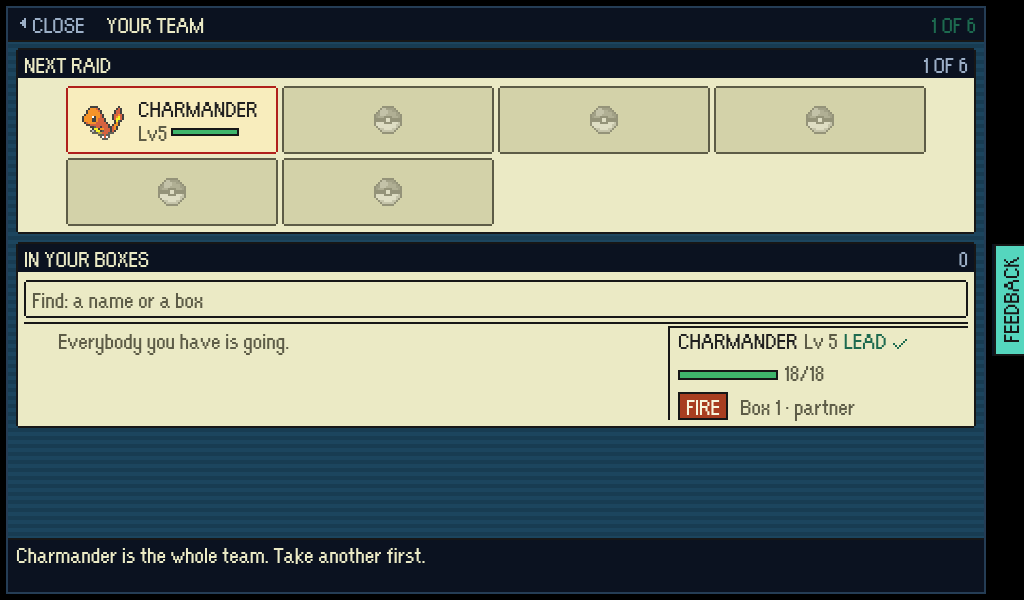
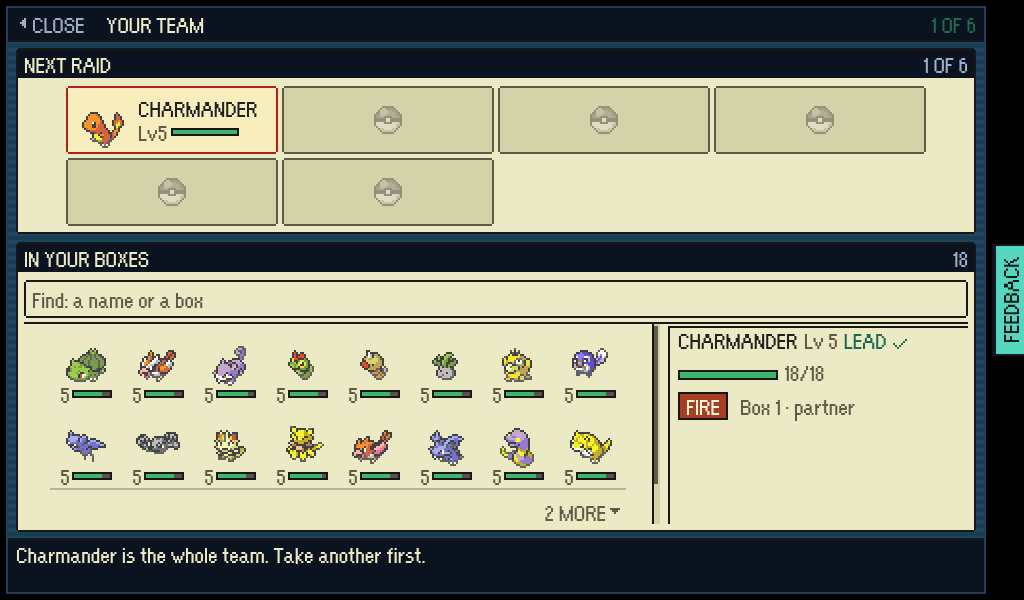
YOUR TEAM's short card hangs only from MenuOverlay's own data-short: fitSidePanel no longer writes a flag that the next line of the relayout overwrote

Changed region(s): [[0.0, 0.54, 0.9688, 0.9], [0.0625, 0.18, 0.125, 0.24]]

diff --git a/src/style.css b/src/style.css
@@ -5226,13 +5226,14 @@ button {
   align-self: end;
 }
 :where(.pixel-ui[data-short]) .team-card > .px-portrait {
-  /* Too short even as a sheet (`fitSidePanel`'s data-short): the words are the
-     card, and the slot above already shows who it is. */
+  /* A screen short of height (`data-short`, `isShortRoom`): at 800x512 the
+     card ran past its frame, its name and HP under it and its LEAD tick on the
+     hint line. The words are the card; the slot above already shows who it is. */
   display: none;
 }
 :where(.pixel-ui[data-short]) .team-card:not([hidden]) {
   /* The name and the bar across, then the type badges and where it lives side
-     by side on one line: three lines are what the short sheet has room for. */
+     by side on one line: three lines are what a short screen has room for. */
   grid-template-columns: auto minmax(0, 1fr);
 }
 :where(.pixel-ui[data-short]) .team-card > .team-card-words > .team-card-types {

diff --git a/src/game/ui/sidePanel.ts b/src/game/ui/sidePanel.ts
@@ -43,19 +43,6 @@ export interface SidePanelView {
  * against the layer put SEND off the edge.
  */
 export function fitSidePanel(root: HTMLElement): SidePanelLayout {
-  const layout = fitLayout(root);
-  // Even a sheet can be too short for a screen: at 800x512 YOUR TEAM's card lost
-  // its name and HP under the frame and its LEAD tick was drawn on the hint line
-  // (scenario loop, 22 Nov 2026). `data-short` asks the screen to drop what it
-  // can do without - the card its big portrait, the slot above has the icon.
-  delete root.dataset.short;
-  if (layout === 'sheet' && spillsOutOfItsFrame(root)) {
-    root.dataset.short = 'true';
-  }
-  return layout;
-}
-
-function fitLayout(root: HTMLElement): SidePanelLayout {
   const layer = root.parentElement;
   const unit = Number.parseFloat(layer?.style.getPropertyValue('--px') ?? '') || 2;
   const box = layer?.getBoundingClientRect();

diff --git a/docs/agents/ui-and-screens.md b/docs/agents/ui-and-screens.md
@@ -16,7 +16,7 @@ Moved out of `AGENTS.md` on 9 Nov 2026 so that file stays small; nothing here wa
 - **The collection and the answer about the thing in it are one screen.** A Pokemon's experience, stats and moves were a whole second view reached by a SUMMARY chip that stood on every stash row beside MOVE, TAKE and GIVE, so two dozen Pokemon were a hundred controls with the thing you came for a layer down. It is the PC box instead: a row is the two lines that tell one Pokemon from another, and everything about the one under the cursor - portrait, types, condition, gear, experience, stats, moves, and whatever deeds that screen offers - is `HubScene.pokemonDetail()` in the `.px-detail` pane under the list, the same pane the contract board and Brock's ladder use. The loadout's treatment chips are its `deeds`, for the same reason. **Every control inside a detail pane carries the pane's own `data-shows`**, or the cursor moving into it swaps the pane out from under itself. The dossier is as tall as what is in it, in a window that is a column flex (`:has(.px-dossier)` in `style.css`) so it can shrink to the screen: once list and dossier cannot both be whole the dossier gives way first, down to `--dossier-floor`, so how much of the list shows never depends on which row the cursor is on - a fixed band was one line and a MORE strip over half a screen of backdrop, with the raid party's TAKE below the fold (playtests 38 and 44); `roomFor()` in `columnLayout.ts` is the one rule that asks how much room the *screen* has (`data-room` on the overlay root, the only thing the stylesheet keys off it), because the band's five blocks need 820 game pixels to stand side by side and a band that wraps is a band cut through the middle. It is **three rungs, not two** - `tight` is `BASE_STAGE` itself, where a list, the band that answers for the row it is on *and* a second band under that cannot share one pane - so every `[data-room='narrow']` rule in the stylesheet carries a `[data-room='tight']` twin, held by `columnLayout.test.ts` because the failure is otherwise silent. `MenuOverlay.showDetailFor` swaps panes **within the control's own window**, not across the screen: Bill is two counters on one page, and swept screen-wide, pointing at his shelf blanked the pane under his barter table. Which window is `detailGroupOf`, not `closest('.px-window')` - a button or a chip wears that class too, so the nearest one to a chip is the chip, and a pane under the list stopped answering at all. `docs/screens/menu-columns/` is the before and after.
 - **A shop says what a thing does, and says it whether or not you have bought it.** A workshop rung's subtitle used to be its *price* while unbought and its *effect* once built, so the one moment a player needs to know what a thing does - deciding whether to buy it - was the moment it was hidden, and the screen explained the purchase after the money was gone (the captain, 2026-09-20, having bought Secure locker I without knowing what it was). `src/game/ui/shopDetail.ts` is the rule both shelves render, Phaser-free: **the row's own line is always the effect**, because what a thing does is its identity and identity does not change when you pay for it; **the price is a column of its own on the right** (`shopPriceColumn`, one short line a part, red and marked with a drawn cross (`SHORT_MARK`, so short is a shape as well as a colour) on what this vault cannot cover, `COLUMN_MEASURES.priced`), which is how a shelf has always answered both at once; and the `.px-detail` pane under the list holds the whole picture for the row the cursor is on - the longer promise, the price **against what is actually spendable** (`payablePokemonCount`, `spendableSupply`, `moneyHeld`, the ration), and the gate, named. Nothing needed writing: `workshop.ts` already carried `effect` and `detail` and every item already carried a `description`, and the pane prints effect above detail, so a `detail` that restates its effect says one thing twice - `shopDetail.test.ts` fails either shelf for it. A bought rung keeps its line and its price column says PAID. Bill gets the same treatment on both counters, and his two irreversible deals - a barter and the berth - are **asked again before they are struck** (and so are Brock's rungs and the partner swap; the safe answer stands last, in the seat of the button that armed it, and `HubScene.clickedTooSoon` swallows a pointer click on the confirm within `RELEASE_ARMING_MS` of arming, because the second click of a double-click released a partner): the row becomes the question and two buttons with the cursor on the one that changes nothing, the arrows stay between its two answers (`askedDealIndex`), and while a deal is asking no other row carries `data-cursor-start` (`refocus` takes the first in the document, and a shelf row still carrying one bought a Poke Ball with the second press). His shelf is never armed: a Potion for Pokedollars is an ordinary purchase and already rationed. `tools/playtest/shopScreens.mjs` stands in front of a rung you can afford, one you cannot and one behind a door and asks all four questions with the arrow keys; `docs/screens/shop-screens/` is the before and after.
 - **Every** DOM screen that belongs to the game is **pixel-ui** - lobby, starter picker, raid result, and since #156 the three a raid opens over the world (the pack, the party, the field guide): an overlay opts in with the `pixel-ui` class, its markup comes from `src/game/ui/pixelUi.ts` (`pixelScreen`, `pixelWindow`, `pixelCommitBar`, `pixelHpBar`, `pixelTag`, `pixelGrid`), and its styling is the `Pixel UI` block that ends `src/style.css`. The unit is one game pixel: `stageScaler.ts` sets `--px` (and the bare `--zoom`) on `#app`, the block calls it `--u`, and every measurement is `calc(var(--u) * N)` with `N` whole - never `px`, `vw`, `cqw` or `em`. One type size, 12.5 game pixels, because Orange Kid's stem is 0.08em and that is where a stem is one pixel, and no bold cut (`strong` is 400), so **weight and size are not levers and hierarchy is inversion, ink, a visible rule and space**. Three ranks, each the title bar or the window reused: `.px-title` is a dark strip 16 pixels deep across the whole screen (where am I); `.px-heading` is the same strip in miniature, 14 deep, bled out to its own window's frame with its note in `--bar-muted` (what is this panel); `.px-subheading` is a `--cream-dim` band across a list in full `--ink` caps, ruled off in `--frame`, with three times the room above it as below (what is this part of the list). Under them a name is plain caps in `--ink` and a detail is `--ink-soft`. Never `--cream-dim` for a rule - on `--cream` it is a twelve per cent step that reads as a fill, not a line - and never `--ink-soft` for a heading: that is de-emphasis. A DOM screen may draw on a canvas of its own - the drop-in screen's map is one - and `#app > canvas` is scoped to the game's own canvas for that reason: unscoped, its `max-height: 100%` resolved a picture inside a pane with no definite height to nothing at all. Nothing inside a screen may resize the screen: `.px-screen`'s one column is `minmax(0, 1fr)` and the title bar's aside clips, because a grid's `auto` column takes its floor from the widest child's min-content and the title bar's `nowrap` back label and aside pushed the lobby 19 pixels past the canvas at the smallest stage. `style.test.ts` holds all of that. **No glyph is ever half-drawn**: a `.px-heading` note is whole or not drawn (the strip wraps a note that does not fit onto a second line the one-line strip clips away, so a note is never itself clipped or shrunk - a note a player needs, like the final check's squares, must be short enough to fit the smallest stage), and a `.px-scroll` pane whose foot would cut a row through its waist gives the whole row to its MORE strip (`scrollCoverHeight()` in `MenuOverlay.ts`, set as `--more-cover` by `markScrollCues()`) and clips off a line *beside* that row the strip's edge would still cut (`foldedRows()`, `data-folded` - Bill's detail panes are two columns whose lines interlock, so no one fold is clean in both), and a row of wrapped copy that is not a control (the result screen's contract) is measured as its lines beside its icon (`rowPieces`), so the strip falls between two of them rather than taking the whole row and its heading, and a `.px-subheading` is never the last line above the strip - with its rows all below the fold it goes under the strip with them (`orphanedHeading`; the drop-in pane ended on ERRANDS over nothing) - and a scrolled pane's top edge masks out the sliver of a row it cuts, down to the first whole row (`scrollTopCoverHeight()`, `data-above`) - the cursor scrolls a row into view by just enough to show it, which left the row above sliced through its name. `tools/playtest/headingShots.mjs` photographs every headed screen at both stages and audits each strip's note by geometry (`docs/screens/heading-clip/` is the before and after). `docs/screens/menu-hierarchy/` is the before-and-after at 3x and at the smallest stage. Orange Kid has no arrows and no tick, so none may be typed - the cursor and the tick are drawn masks (`--px-cursor`, `--px-tick`) and a HubScene test fails a screen that types one. Text is the only thing whose width is not a multiple of the unit, so `MenuOverlay.snapTextBoxes()` widens text-sized boxes to the grid after every render - and again on `document.fonts`' `loadingdone`, because boot waits for Orange Kid only `GAME_FONT_TIMEOUT_MS` and boxes measured in the monospace fallback stayed a third too wide (the starter picker's two type tags stopped fitting on one row; `tools/playtest/browser.mjs`'s `page.on('Fetch.requestPaused')` holds the woff2 back to reproduce it) - and `.px-screen` is its own transparent layer because that is what makes Windows and Linux antialias the face in greys instead of LCD colour fringes. Every selector in that block is scoped to `.pixel-ui` - through `:where()`, so the scope adds no weight and the cascade reads as written - because the older screens share class names with the lobby; `style.test.ts` fails an unscoped one. The flip side: a `:where()`-scoped rule weighs one class, so it can never pad a window against `.pixel-ui .px-window` (two). Bill's tight `padding: 0` sat dead for a release for that reason, and `style.test.ts` now fails any rule like it. Brock's ladder and payment are pixel-ui too (a rung is a `px-tall` row, and what the pointed-at rung does is the list's one `px-detail` pane, as on the contract board). How far a Pokemon is from its next level and what each of its moves does are derived by `src/game/ui/pokemonSummary.ts` (the top of the experience curve is read off the curve, because `experienceForLevel` clamps, rather than from a second copy of the cap) and drawn in the stash's own detail pane - see the entry below; there is no summary *screen*. Only the Test Lab (`?test-lab=1`) is still the older rounded style, which is a dev tool and nobody's game. **A screen a raid opens is the same screen as the one at base**, and that is a rule rather than a resemblance: `raidScreens.test.ts` holds all three to the shared parts, to `pixelColumns`, to `moveCursor`, and to having no layer of their own. It is read under the clock with the hunter on the map, so a layer costs more here than anywhere - the bag's pocket *tabs* are gone (every pocket at once, banded by `.px-subheading`, gear among them for the first time), the row itself is the act (Enter on a Potion opens the recipient list, so using one is four presses) and the pointed-at item's squares are lit by a class on a block rather than by a re-render (`BagScene.markPack`, off the `data-describes` key every `pixelGrid` block carries - the same key its row does, so pointing at a square answers for the row and back). The pane under a list of Pokemon is one module, `src/game/ui/pokemonDossier.ts`, shared by the stash and the raid party so two lists of the same thing cannot drift into two shapes; its CSS is `.px-dossier*`. One trap it paid for twice: **a `.px-scroll` pane may never have bottom padding of its own**. A sticky MORE strip sticks to the *content* edge, so the padding shows the tops of the next line's letters under the very cue that exists to stop a row being half drawn - `.px-scroll` sets it to zero and `style.test.ts` fails a later rule that puts it back on any class the markup ever pairs with `px-scroll` - `.px-dossier` had it, and then `.shop-detail` did. A wrapped `.px-wrap` sentence is measured for the fold line by line (`lineBoxes()` in `MenuOverlay.ts`), so the strip may fall between two of its lines but never through one. And **a pane may never draw a scrollbar for a pixel**: Orange Kid's content area is deeper than its 12-pixel line, so a list's last row overflows its pane by a screen pixel, and where a browser draws scrollbars (Windows) that bar took the width its columns were counted in, a second took the height and the MORE strip the rest - the final check cut three rows through their middles over an empty screen. `fitsItsBox` marks such a pane `data-flush` and it clips instead; `menuShots.mjs --scrollbars` fails a pane that scrolls by a pixel or sideways, and only `--scrollbars` shows it in a picture.
-- **A menu shows things rather than listing them** (the captain, 12 Nov 2026: menus "so cluttered and boring"; `docs/screens/menu-overhaul/` is the inventory, the named benchmarks, the rules and a before, after and scorecard per menu, redrawn one pull request at a time). A Pokémon on a menu is FireRed's party icon (`ui/monIcon.ts`, `pixelMonIcon`, over the shipped `pokemon-icons.png`), flapping between its two frames at FireRed's own pace for its health - 6, 8, 14 or 22 ticks of 60 a frame by `GetHPBarLevel`, still when fainted - and the focused one bouncing (`mon-flap`/`mon-bounce`, kept above the Pixel UI block because a keyframe is no selector); `pixelHpBar(current, max, width)` draws a shorter bar beside one. YOUR TEAM (`ui/teamView.ts`) is the first: six slots two abreast (`pixelPartySlot`, shared with the raid PARTY) (the lead's gold, an empty one a dim Poké Ball, no `data-find` on them because the find is for the boxes), the boxes as a grid of icon tiles, and one `.team-card` per Pokémon swapped by `data-shows` for the one under the cursor. **A grid of tall tiles in a `.px-scroll` takes `scroll-snap-type: y mandatory`**: the scroll cues hide a row cut at either end, and a pane resting between two 41-pixel rows hid both, a blank band where the boxes were; and its rows are sized by the tiles, never `grid-auto-rows`, or the MORE strip becomes a tile-tall row of its own. A sheet (`data-layout='sheet'`) is wide and short, so the card stands beside the grid there. The raid PARTY (`scenes/PartyScene.ts`) is the same six slots, with what each holds as its own item icon on the slot's corner (FireRed's held-item mark) and the slot in hand red; its dossier is the shared one, re-seated by grid in a side column or a tight room so the portrait leads beside the name and health - its markup is left alone because Bill's PC, the bench and the day-care draw it too. `tools/playtest/partyShots.mjs` plays every key path on it. The raid PACK (`scenes/BagScene.ts`) is a grid of item tiles - the icon at twice its size and its count, pocket after pocket with no bands, because a band took a grid row for two tiles - and using an item asks who for on the party slots, with `pixelPartySlot`'s `note` for the HP or ABLE; `packShots.mjs` plays it. Bill's PC (`HubScene.stashView`) is the same: `pixelMonTile` for the box (a hurt one at the Center shows its treatment price in red where its level would be, because ENTER pays it) and `pixelItemTile` for the supplies; `stashShots.mjs` plays it. **A tile clips to its own box** (`overflow: hidden`): the line under an icon is a pixel or two taller than the tile allows, and spilling out of the last row it made a pane three pixels taller than its rows, which kept a MORE strip over a whole row in a window with room to spare. And anything spanning a snapping grid (the box bar) is a snap point too, or the pane snaps past it on opening and the top-cut mask hides it. The bench (`HubScene.benchView`) is YOUR TEAM's shape - six `pixelPartySlot`s over a `pixelMonTile` box - and `deploy.mjs`'s `takePokemon` reads a tile's name from its `aria-label` and a benched one as a slot. **`data-short`** on a menu root (`isShortRoom` in `columnLayout.ts`, fewer than 300 game pixels down) is the one way to tell 800x600 from a side column at 1280x800, which are both `tight`: the bench's slots become one strip of six there. The picture-first dossier (raid PARTY and bench) keeps `.px-dossier-figure` one box - `display: contents` hid it from the fold, which then cut the type badges - and floors the pane at 80 pixels, the portrait and its MORE strip. The raid's result (`ExtractionScene`) draws the haul as `.result-tile`s - an item tile tinted and marked by its fate, popping in by `--i` - and a Pokémon's ledger line starts with its icon (`pixelMonIconForDex`, the report carries dex numbers), overhanging the row by four pixels so the row is no taller; `.px-item-tile` is in `SCROLL_ROWS`, or the MORE strip cut a tile through its count. `resultShots.mjs` opens it on a made report rather than playing a raid. Brock's Workshop (`HubScene.workshopView`) is a skyline of cards, each drawing the fixture its rung plants in the yard (`ui/fixturePicture.ts`: `fixtureArt` lays out `BASE_FIXTURES`' props tile for tile, `drawFixture` paints them on a canvas from the textures the yard already loaded, resolving each tile's sheet by `firstIndex`); a rung asking again stays in its card's cell. The cards keep the shop rule (the effect on the card, bought or not) except under `data-short`, where the pane says it. Where LEFT and RIGHT already mean something (the rack's count selectors, YOUR THINGS's pocket jump) the list stays a list and shows what it said in words: the rack's quantity as `pixelStack` (a pile of the item, packed ones lit), YOUR THINGS's pockets as `pocketStrip` (HeartGold's pocket icons, the cursor's pocket lit by a `focusin` class toggle, never a redraw, and a rule between pockets in place of bands). A pile under each locker row was tried and cost two of seven rows: a narrow pane pays for every row's height. `tools/playtest/teamShots.mjs` photographs it, walks every tile by arrow key and prints the glance measure (`--before` for a build from before). A sheet can be too short as well: `fitSidePanel` then sets `data-short`, and a screen drops what it can do without (YOUR TEAM's card its big portrait) - at 800x512 the card lost its name and HP under the frame (`docs/screens/team-short-sheet/`).
+- **A menu shows things rather than listing them** (the captain, 12 Nov 2026: menus "so cluttered and boring"; `docs/screens/menu-overhaul/` is the inventory, the named benchmarks, the rules and a before, after and scorecard per menu, redrawn one pull request at a time). A Pokémon on a menu is FireRed's party icon (`ui/monIcon.ts`, `pixelMonIcon`, over the shipped `pokemon-icons.png`), flapping between its two frames at FireRed's own pace for its health - 6, 8, 14 or 22 ticks of 60 a frame by `GetHPBarLevel`, still when fainted - and the focused one bouncing (`mon-flap`/`mon-bounce`, kept above the Pixel UI block because a keyframe is no selector); `pixelHpBar(current, max, width)` draws a shorter bar beside one. YOUR TEAM (`ui/teamView.ts`) is the first: six slots two abreast (`pixelPartySlot`, shared with the raid PARTY) (the lead's gold, an empty one a dim Poké Ball, no `data-find` on them because the find is for the boxes), the boxes as a grid of icon tiles, and one `.team-card` per Pokémon swapped by `data-shows` for the one under the cursor. **A grid of tall tiles in a `.px-scroll` takes `scroll-snap-type: y mandatory`**: the scroll cues hide a row cut at either end, and a pane resting between two 41-pixel rows hid both, a blank band where the boxes were; and its rows are sized by the tiles, never `grid-auto-rows`, or the MORE strip becomes a tile-tall row of its own. A sheet (`data-layout='sheet'`) is wide and short, so the card stands beside the grid there. The raid PARTY (`scenes/PartyScene.ts`) is the same six slots, with what each holds as its own item icon on the slot's corner (FireRed's held-item mark) and the slot in hand red; its dossier is the shared one, re-seated by grid in a side column or a tight room so the portrait leads beside the name and health - its markup is left alone because Bill's PC, the bench and the day-care draw it too. `tools/playtest/partyShots.mjs` plays every key path on it. The raid PACK (`scenes/BagScene.ts`) is a grid of item tiles - the icon at twice its size and its count, pocket after pocket with no bands, because a band took a grid row for two tiles - and using an item asks who for on the party slots, with `pixelPartySlot`'s `note` for the HP or ABLE; `packShots.mjs` plays it. Bill's PC (`HubScene.stashView`) is the same: `pixelMonTile` for the box (a hurt one at the Center shows its treatment price in red where its level would be, because ENTER pays it) and `pixelItemTile` for the supplies; `stashShots.mjs` plays it. **A tile clips to its own box** (`overflow: hidden`): the line under an icon is a pixel or two taller than the tile allows, and spilling out of the last row it made a pane three pixels taller than its rows, which kept a MORE strip over a whole row in a window with room to spare. And anything spanning a snapping grid (the box bar) is a snap point too, or the pane snaps past it on opening and the top-cut mask hides it. The bench (`HubScene.benchView`) is YOUR TEAM's shape - six `pixelPartySlot`s over a `pixelMonTile` box - and `deploy.mjs`'s `takePokemon` reads a tile's name from its `aria-label` and a benched one as a slot. **`data-short`** on a menu root (`isShortRoom` in `columnLayout.ts`, fewer than 300 game pixels down) is the one way to tell 800x600 from a side column at 1280x800, which are both `tight`: the bench's slots become one strip of six there. The picture-first dossier (raid PARTY and bench) keeps `.px-dossier-figure` one box - `display: contents` hid it from the fold, which then cut the type badges - and floors the pane at 80 pixels, the portrait and its MORE strip. The raid's result (`ExtractionScene`) draws the haul as `.result-tile`s - an item tile tinted and marked by its fate, popping in by `--i` - and a Pokémon's ledger line starts with its icon (`pixelMonIconForDex`, the report carries dex numbers), overhanging the row by four pixels so the row is no taller; `.px-item-tile` is in `SCROLL_ROWS`, or the MORE strip cut a tile through its count. `resultShots.mjs` opens it on a made report rather than playing a raid. Brock's Workshop (`HubScene.workshopView`) is a skyline of cards, each drawing the fixture its rung plants in the yard (`ui/fixturePicture.ts`: `fixtureArt` lays out `BASE_FIXTURES`' props tile for tile, `drawFixture` paints them on a canvas from the textures the yard already loaded, resolving each tile's sheet by `firstIndex`); a rung asking again stays in its card's cell. The cards keep the shop rule (the effect on the card, bought or not) except under `data-short`, where the pane says it. Where LEFT and RIGHT already mean something (the rack's count selectors, YOUR THINGS's pocket jump) the list stays a list and shows what it said in words: the rack's quantity as `pixelStack` (a pile of the item, packed ones lit), YOUR THINGS's pockets as `pocketStrip` (HeartGold's pocket icons, the cursor's pocket lit by a `focusin` class toggle, never a redraw, and a rule between pockets in place of bands). A pile under each locker row was tried and cost two of seven rows: a narrow pane pays for every row's height. `tools/playtest/teamShots.mjs` photographs it, walks every tile by arrow key and prints the glance measure (`--before` for a build from before). On a screen short of height (`data-short`, `isShortRoom`) YOUR TEAM's card drops its big portrait and puts its type and where it lives on one line: at 800x512 it lost its name and HP under the frame (`docs/screens/team-short-sheet/`).
 - **A screen the raid opens stands at the side, with the map still there** (the captain, 30 Oct: menu screens "felt disengaging"; `ui/sidePanel.ts`, `docs/screens/side-panels/`). The pack, the party, reading a disc (with its move chooser, `MoveChooserView.beside`) and the harbour's favours are `MenuOverlay`s wearing `side-panel`, the FEEDBACK panel's shape: a 232-pixel column where the layer has room (`SIDE_PANEL_MIN_LAYER_WIDTH`), the whole screen as a `sheet` where it has not. `data-layout='side'` is what a layout keys off to stack, and `data-room` still reads `tight` in a column, so a panel gets the tight rules. **The raid is stopped, not running, behind one**: the world is paused and still drawn, the title bar says `CLOCK STOPPED`, and the clock and hunters stand exactly where they stood, as they always did behind the full screen. What moves is the view: `PanelLean` leans the camera half the panel east, and widens its bounds by the panel so a map's east edge rests beside it rather than under it; `RaidHud.render`'s `covered` brings the right column round, and the clock stands under the objective where the two no longer fit. A paused scene has no `update`, so the panel's own scene drives the lean through `SidePanelView.frame`. `tools/playtest/sidePanels.mjs` plays it all, hunter on the player's heels and keys and mouse included. The Workshop and Bill are still full screens. A column too short for what its screen holds is a sheet too (`fitSidePanel` asks `bodySpills` of its `.px-body`): at 1024x600 YOUR TEAM's card ran out of the column over the hint line (`docs/screens/team-short-window/`).
 - **On a screen whose rows are a choice of who receives something, the pointer only previews** (the captain, 2026-09-27: teaching a move, the mouse on its way to the button made whichever Pokemon it crossed the chosen one). `MenuOverlay.pointerRule = 'previews'` (`ui/pointerPreview.ts`, tested in `pointerPreview.test.ts`): the pointer draws a one-pixel rule round what it is over (`[data-pointer='previews'] button:hover`) and reads its help on the help bar, and only a click or the arrow keys move the cursor. The raid pack (`BagScene`) and the move chooser use it; every other screen still lets the pointer move the cursor, because on the loadout a click *adds* a Pokemon and hovering is how a mouse reads its pane - making it global means giving those panes a preview first. Reading a disc is its own screen, `ui/teachScreen.ts`: the move, every party member as a card with its moves and what the disc would do to it, and a bar that asks - choosing a card marks it, only TEACH reads the disc - and the move chooser marks a move before its bar's FORGET forgets it, as FireRed asks. `tools/playtest/teachShots.mjs --hover-check` plays both and fails if the pointer moves a cursor; `docs/screens/teach-a-move/`. **The second press of a double-tap answers nothing either** (playtest of PRs 490-508: two quick ENTERs on a Thunder Stone in YOUR THINGS evolved the first able Pokémon on a list never seen): each of these questions is drawn with the cursor already on an answer, so `BagScene` and `ThingsScene` remember when it appeared (`askedAt`) and ignore a give, a stone or TEACH within `RELEASE_ARMING_MS` of it - a new screen that opens a list of recipients with one focused does the same.
 - **Never redraw a screen from a focus event.** Setting `innerHTML` inside `focusin` throws away the control the cursor just landed on and the columns measured for it, and from inside `MenuOverlay.moveCursorTo` the unmeasured screen is what gets painted: the old starter picker did this and looped (the cards at their narrowest, no cursor, keys dead; `tools/playtest/starterBalls.mjs` samples every painted frame of the swap's cards under a real pointer). Answer the cursor in place, as `BagScene.markPack` and the boutique's mirror do. `MenuOverlay.focus`/`refocus` honour only the newest request.

diff --git a/docs/screens/team-short-sheet/README.md b/docs/screens/team-short-sheet/README.md
@@ -1,3 +1,3 @@
-# YOUR TEAM on a short sheet
+# YOUR TEAM on a screen short of height
 
-At 800x512 the panel is a whole-screen sheet, and still too short for the card under the boxes: before, its name and HP were under the frame and its LEAD tick was drawn on the hint line. After, `fitSidePanel` marks a sheet that still spills `data-short`, and the card drops its big portrait (the slot above shows the icon) and puts its type badge and where it lives on one line. `after-800x512.png` has 18 in the boxes; at 1024x600 the portrait sheet also spilled a little, so it is short too; 1280x720 is a side column and unchanged. Made against a test-mode build on `?testmode=pixels` in a headless Chromium at each size, pressing P in the harbour.
+At 800x512 the panel is a whole-screen sheet and still too short for the card under the boxes: before, its name and HP were under the frame and its LEAD tick was drawn on the hint line. After, on a screen short of height (`data-short`, which `MenuOverlay` already sets below 300 game pixels, `isShortRoom`) the card drops its big portrait (the slot above shows the icon) and puts its type badge and where it lives on one line. Both after pictures have 18 in the boxes; 1280x720 is a side column of 360 and unchanged. Made against a test-mode build on `?testmode=pixels` in a headless Chromium at each size, pressing P in the harbour.
